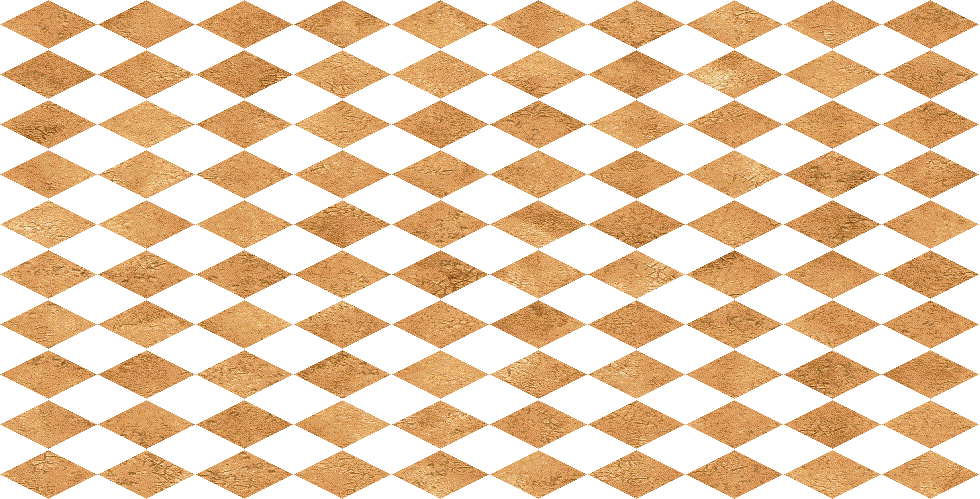
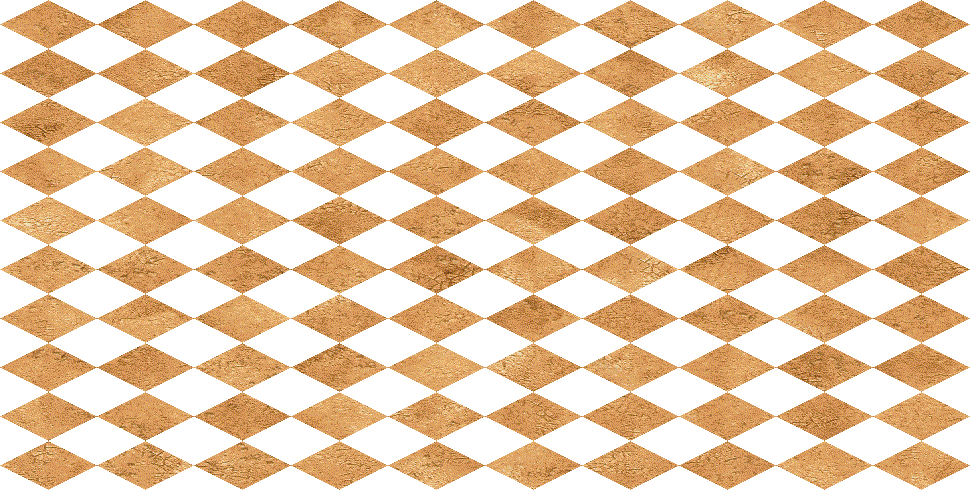
Added IInputService Scrolling terrain

Changed region(s): [[0.0, 0.0, 1.0, 1.0]]

diff --git a/EmpireSharp.Game/Modules/MonoGame/InputManager.cs b/EmpireSharp.Game/Modules/MonoGame/InputManager.cs
@@ -1,0 +1,111 @@
+/*
+*  This Source Code Form is subject to the terms of the Mozilla Public
+*  License, v. 2.0. If a copy of the MPL was not distributed with this
+*  file, You can obtain one at http://mozilla.org/MPL/2.0/.
+*
+*  EmpireSharp (c) Simon Moles 2013 (www.simonmoles.com)
+*
+*/
+
+using System;
+using System.Linq;
+using EmpireSharp.Game.Framework.Services;
+using Microsoft.Xna.Framework.Input;
+
+namespace EmpireSharp.Game.Modules.MonoGame
+{
+	class InputManager : IInputService
+	{
+
+		public event EventHandler<KeyboardEventArgs> KeyPressed;
+
+		public event EventHandler<KeyboardEventArgs> KeyReleased;
+
+		/// <summary>
+		/// Keyboard state during this frame.
+		/// </summary>
+		public KeyboardState KeyboardState { get; private set; }
+
+		/// <summary>
+		/// Keyboard state from the last frame.
+		/// </summary>
+		public KeyboardState PreviousKeyboardState { get; private set; }
+
+
+		public bool IsKeyPressed(Keys key)
+		{
+			return KeyboardState.IsKeyDown(key) &&  PreviousKeyboardState.IsKeyUp(key);
+		}
+
+		public bool IsKeyReleased(Keys key)
+		{
+			return PreviousKeyboardState.IsKeyDown(key) && KeyboardState.IsKeyUp(key);
+		}
+
+		public bool IsKeyDown(Keys key)
+		{
+			return KeyboardState.IsKeyDown(key);
+		}
+
+		public bool IsKeyUp(Keys key)
+		{
+			return KeyboardState.IsKeyUp(key);
+		}
+
+		public void Update(float dt)
+		{
+
+			PreviousKeyboardState = KeyboardState;
+			KeyboardState = Keyboard.GetState();
+
+			EventUpdate();
+
+		}
+
+		void EventUpdate()
+		{
+
+			if (KeyReleased == null && KeyPressed == null)
+				return; // Early out if there are no listeners
+
+			var pressedKeys = KeyboardState.GetPressedKeys();
+			var prevPressedKeys = PreviousKeyboardState.GetPressedKeys();
+
+			if (KeyPressed != null) {
+
+				foreach (var key in pressedKeys.Where(key => !prevPressedKeys.Contains(key))) {
+					OnKeyPressed(key);
+				}
+
+			}
+
+			if (KeyReleased != null) {
+
+				foreach (var key in prevPressedKeys.Where(key => !pressedKeys.Contains(key))) {
+					OnKeyReleased(key);
+				}
+
+			}
+
+		}
+
+		private void OnKeyPressed(Keys key)
+		{
+
+			if (KeyPressed != null) {
+				KeyPressed(this, new KeyboardEventArgs(key, KeyState.Down));
+			}
+
+		}
+	
+		private void OnKeyReleased(Keys key)
+		{
+
+			if (KeyReleased != null) {
+				KeyReleased(this, new KeyboardEventArgs(key, KeyState.Up));
+			}
+
+		}
+
+	}
+}

diff --git a/EmpireSharp.Game/Modules/MonoGame/Camera.cs b/EmpireSharp.Game/Modules/MonoGame/Camera.cs
@@ -7,6 +7,7 @@
 *
 */
 
+using System;
 using Microsoft.Xna.Framework;
 
 namespace EmpireSharp.Game.Modules.MonoGame
@@ -18,10 +19,13 @@ namespace EmpireSharp.Game.Modules.MonoGame
 	public class Camera
 	{
 
-		private Vector2 _simulationPosition;
+		private Vector2 _simulationPosition = Vector2.Zero;
 		private Matrix _simulationTransform;
 		private Matrix _inverseTransform;
 		private float _scale;
+
+		private Matrix _directionTransform = Matrix.CreateRotationZ(MathHelper.PiOver4);
+		private Matrix _inverseDirectionTransform = Matrix.Invert(Matrix.CreateRotationZ(MathHelper.PiOver4));
 
 		public bool IsDirty { get; set; }
 
@@ -44,6 +48,13 @@ namespace EmpireSharp.Game.Modules.MonoGame
 				return _inverseTransform;
 			}
 		}
+
+		public Matrix DirectionTransform
+		{
+			get { return _directionTransform; }
+		}
+
+		public Matrix InverseDirectionTransform { get { return _inverseDirectionTransform; } }
 
 		/// <summary>
 		/// Position of the camera in simulation space.
@@ -70,20 +81,24 @@ namespace EmpireSharp.Game.Modules.MonoGame
 
 		public Vector2 TransformSimulationToView(Vector2 position)
 		{
-
-			Vector2.Transform(ref position, ref _simulationTransform, out position);
-
-			return position;
-
+			return Vector2.Transform(position, Transform);
 		}
 	
 		public Vector2 TransformViewToSimulation(Vector2 position)
 		{
+			return Vector2.Transform(position, InverseTransform);
+		}
 
-			Vector2.Transform(ref position, ref _inverseTransform, out position);
+		public Vector2 TransformSimulationDirectionToView(Vector2 direction)
+		{
+			Vector2.Transform(ref direction, ref _directionTransform, out direction);
+			return direction;
+		}
 
-			return position;
-
+		public Vector2 TransformViewDirectionToSimulation(Vector2 direction)
+		{
+			Vector2.Transform(ref direction, ref _inverseDirectionTransform, out direction);
+			return direction;
 		}
 
 		public void Rebuild()
@@ -91,8 +106,9 @@ namespace EmpireSharp.Game.Modules.MonoGame
 
 			var matrix = Matrix.Identity;
 
+			matrix *= Matrix.CreateTranslation(SimulationPosition.X, SimulationPosition.Y, 0);
 			matrix *= Matrix.CreateScale(Scale);
-			matrix *= Matrix.CreateRotationZ(MathHelper.PiOver4);
+			matrix *= DirectionTransform;
 			matrix *= Matrix.CreateScale(1.0f, 0.5f, 1.0f);
 
 			_simulationTransform = matrix;

diff --git a/EmpireSharp.Game/Framework/Services/IInputService.cs b/EmpireSharp.Game/Framework/Services/IInputService.cs
@@ -1,0 +1,66 @@
+/*
+*  This Source Code Form is subject to the terms of the Mozilla Public
+*  License, v. 2.0. If a copy of the MPL was not distributed with this
+*  file, You can obtain one at http://mozilla.org/MPL/2.0/.
+*
+*  EmpireSharp (c) Simon Moles 2013 (www.simonmoles.com)
+*
+*/
+
+using System;
+using Microsoft.Xna.Framework.Input;
+
+namespace EmpireSharp.Game.Framework.Services
+{
+
+	public sealed class KeyboardEventArgs : EventArgs
+	{
+
+		public readonly Keys Key;
+		public readonly KeyState NewState;
+
+		public KeyboardEventArgs(Keys key, KeyState state)
+		{
+			Key = key;
+			NewState = state;
+		}
+
+	}
+
+	public interface IInputService
+	{
+
+		event EventHandler<KeyboardEventArgs> KeyPressed; 
+
+		event EventHandler<KeyboardEventArgs> KeyReleased; 
+
+		/// <summary>
+		/// Was the key pressed during this update.
+		/// </summary>
+		/// <param name="key"></param>
+		/// <returns></returns>
+		bool IsKeyPressed(Microsoft.Xna.Framework.Input.Keys key);
+
+		/// <summary>
+		/// Was the key released during this update.
+		/// </summary>
+		/// <param name="key"></param>
+		/// <returns></returns>
+		bool IsKeyReleased(Microsoft.Xna.Framework.Input.Keys key);
+		
+		/// <summary>
+		/// Is the key currently down
+		/// </summary>
+		/// <param name="key"></param>
+		/// <returns></returns>
+		bool IsKeyDown(Microsoft.Xna.Framework.Input.Keys key);
+
+		/// <summary>
+		/// Is they key current up
+		/// </summary>
+		/// <param name="key"></param>
+		/// <returns></returns>
+		bool IsKeyUp(Microsoft.Xna.Framework.Input.Keys key);
+
+	}
+}

diff --git a/EmpireSharp.Game/Modules/MonoGame/Shell.cs b/EmpireSharp.Game/Modules/MonoGame/Shell.cs
@@ -37,12 +37,22 @@ namespace EmpireSharp.Game.Modules.MonoGame
 
 		internal GameStates.GameStateMain MainGameState { get; set; }
 
-		[Inject]
 		public Ninject.IKernel IoC { get; private set; }
 
-		public Shell()
+		private InputManager _inputManager;
+
+		[Inject]
+		public Shell(IKernel ioc)
 			: base()
 		{
+
+			IoC = ioc;
+
+			IoC.Bind<ILog>().To<LogService>().InSingletonScope();
+			IoC.Bind<IContentService>().To<ContentService>().InSingletonScope();
+			IoC.Bind<IInputService>().To<InputManager>().InSingletonScope();
+
+			_inputManager = IoC.Get<IInputService>() as InputManager;
 
 			_graphics = new GraphicsDeviceManager(this);
 			_graphics.PreferredBackBufferHeight = 720;
@@ -72,7 +82,7 @@ namespace EmpireSharp.Game.Modules.MonoGame
 			IsMouseVisible = true;
 
 			this.Window.Title = "EmpireSharp";
-
+			 
 			MainGameState = IoC.Get<GameStateMain>();
 
 			WhitePixelTex = new Texture2D(GraphicsDevice, 1,1);
@@ -110,8 +120,11 @@ namespace EmpireSharp.Game.Modules.MonoGame
 		/// <param name="gameTime">Provides a snapshot of timing values.</param>
 		protected override void Update(GameTime gameTime)
 		{
+
 			if (GamePad.GetState(PlayerIndex.One).Buttons.Back == ButtonState.Pressed || Keyboard.GetState().IsKeyDown(Keys.Escape))
 				Exit();
+
+			_inputManager.Update((float)gameTime.ElapsedGameTime.TotalSeconds);
 
 			MainGameState.Update((float)gameTime.ElapsedGameTime.TotalSeconds);
 

diff --git a/EmpireSharp.Game/Modules/MonoGame/GameStates/GameStateMain.cs b/EmpireSharp.Game/Modules/MonoGame/GameStates/GameStateMain.cs
@@ -38,6 +38,9 @@ namespace EmpireSharp.Game.Modules.MonoGame.GameStates
 		IShell Shell { get; set; }
 
 		[Inject]
+		IInputService Input { get; set; }
+
+		[Inject]
 		public GameStateMain(IContentService content, IKernel ioc)
 		{
 
@@ -59,6 +62,7 @@ namespace EmpireSharp.Game.Modules.MonoGame.GameStates
 		{
 
 			var mouseState = Mouse.GetState();
+			var keyState = Keyboard.GetState();
 
 			if (mouseState.LeftButton == ButtonState.Pressed) {
 
@@ -76,6 +80,34 @@ namespace EmpireSharp.Game.Modules.MonoGame.GameStates
 			} else {
 
 				_prevPressed = false;
+
+			}
+
+			Vector2 cameraMoveDirection = Vector2.Zero;
+
+			const float scrollSpeed = 3;
+
+			if (Input.IsKeyDown(Keys.Left)) {
+				cameraMoveDirection.X += 1;
+			}
+			if (Input.IsKeyDown(Keys.Right)) {
+				cameraMoveDirection.X -= 1;
+			}	
+			if (Input.IsKeyDown(Keys.Up)) {
+				cameraMoveDirection.Y += 1;
+			}
+			if (Input.IsKeyDown(Keys.Down)) {
+				cameraMoveDirection.Y -= 1;
+			}
+
+			if (cameraMoveDirection.LengthSquared() > 0) {
+
+				cameraMoveDirection.Normalize();
+				cameraMoveDirection.Y *= 2;
+
+				var simDirection = _camera.TransformViewDirectionToSimulation(cameraMoveDirection);
+
+				_camera.SimulationPosition += simDirection * dt * scrollSpeed;
 
 			}
 

diff --git a/EmpireSharp.Game/Modules/MonoGame/TerrainRenderer.cs b/EmpireSharp.Game/Modules/MonoGame/TerrainRenderer.cs
@@ -66,8 +66,8 @@ namespace EmpireSharp.Game.Modules.MonoGame
 
 					var tex = _terrainLookup[tile.TypeID];
 
-					int indice = ((size - i) % (size - 1)) * (size + j) % size;
-					var sourceRect = TileSourceRect(tile.TypeID, indice, ref tex);
+					int tileIndice = ((size - i) % (size - 1)) * (size + j) % size;
+					var sourceRect = TileSourceRect(tile.TypeID, tileIndice, ref tex);
 
 					var targetPosition = camera.TransformSimulationToView(new Vector2(i + 0.5f, j + 0.5f));
 
@@ -84,9 +84,10 @@ namespace EmpireSharp.Game.Modules.MonoGame
 		public Rectangle TileSourceRect(int tileType, int index, ref Texture2D tex)
 		{
 
+
 			var type = _terrain.TerrainTypes[tileType];
 
-			var x = type.TileWidth * index;
+			var x = type.TileWidth * (index % 99);
 			var y = 0;
 
 			while (x >= tex.Width) {

diff --git a/EmpireSharp.Game/Main.cs b/EmpireSharp.Game/Main.cs
@@ -26,8 +26,6 @@ namespace EmpireSharp.Game
 			IoC.Settings.InjectParentPrivateProperties = true;
 			IoC.Settings.InjectNonPublic = true;
 
-			IoC.Bind<ILog>().To<LogService>().InSingletonScope();
-			IoC.Bind<IContentService>().To<ContentService>().InSingletonScope();
 			IoC.Bind<IShell>().To<Shell>().InSingletonScope();
 
 		}
